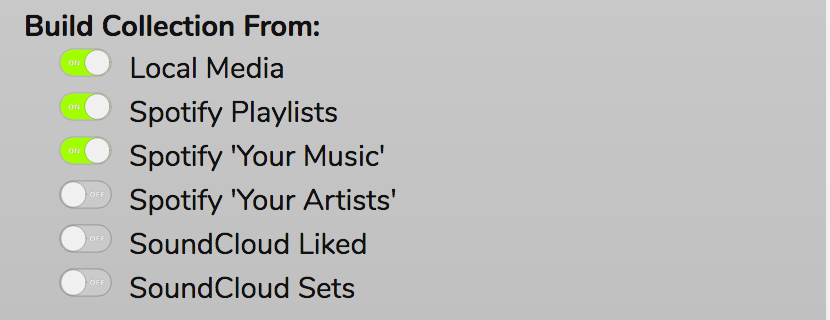
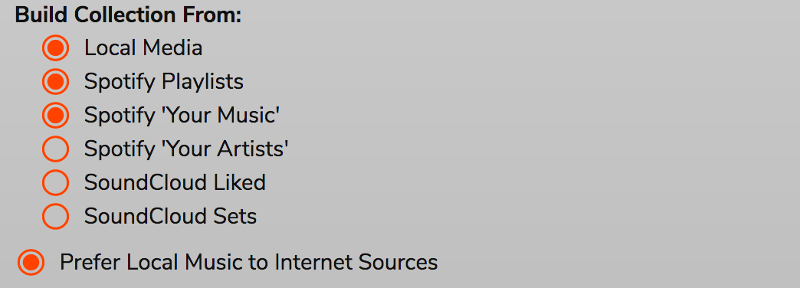
'Prefer Local Files' Collection option

Changed region(s): [[0.0, 0.0, 0.5, 0.8125], [0.0, 0.8438, 0.5625, 0.9688], [0.9688, 0.0, 1.0, 1.0]]

diff --git a/skins/desktop/skin.css b/skins/desktop/skin.css
@@ -46,10 +46,12 @@
     font-size:8pt;
     padding-top:0px;
     padding-bottom:0px;
-    /* white-space:nowrap; */
     height:60px;
     width:100%;
     overflow:hidden;
+    box-sizing:border-box;
+    border-right:4px solid transparent;
+    border-left:4px solid transparent;
 }
 
 #patrickmoore {

diff --git a/skins/fruit/skin.css b/skins/fruit/skin.css
@@ -70,10 +70,12 @@
     font-size:8pt;
     padding-top:0px;
     padding-bottom:0px;
-    /* white-space:nowrap; */
     height:60px;
     width:100%;
     overflow:hidden;
+    box-sizing:border-box;
+    border-right:4px solid transparent;
+    border-left:4px solid transparent;
 }
 
 #patrickmoore {

diff --git a/skins/skypotato/skin.css b/skins/skypotato/skin.css
@@ -70,10 +70,12 @@
     font-size:8pt;
     padding-top:0px;
     padding-bottom:0px;
-    /* white-space:nowrap; */
     height:60px;
     width:100%;
     overflow:hidden;
+    box-sizing:border-box;
+    border-right:4px solid transparent;
+    border-left:4px solid transparent;
 }
 
 #patrickmoore {

diff --git a/backends/sql/backend.php b/backends/sql/backend.php
@@ -163,16 +163,18 @@ function check_album(&$data) {
 	//		Checks for the existence of an album and creates it if necessary
 	//		Returns: Albumindex
 
-	global $prefs;
+	global $prefs, $trackbytrack, $doing_search;
 	$index = null;
 	$year = null;
 	$img = null;
+	$mbid = null;
 	$result = sql_prepare_query(false, PDO::FETCH_OBJ, null, null,
 		"SELECT
 			Albumindex,
 			Year,
 			Image,
-			AlbumUri
+			AlbumUri,
+			mbid
 		FROM
 			Albumtable
 		WHERE
@@ -180,12 +182,44 @@ function check_album(&$data) {
 			AND AlbumArtistindex = ?
 			AND Domain = ?", $data['album'], $data['albumai'], $data['domain']);
 	$obj = array_shift($result);
+
+	if ($prefs['preferlocalfiles'] && $trackbytrack && !$doing_search && $data['domain'] == 'local' && !$obj) {
+		// Does the album exist on a different, non-local, domain? The checks above ensure we only do this
+		// during a collection update
+		$result = sql_prepare_query(false, PDO::FETCH_OBJ, null, null,
+			"SELECT
+				Albumindex,
+				Year,
+				Image,
+				AlbumUri,
+				mbid,
+				Domain
+			FROM
+				Albumtable
+			WHERE
+				LOWER(Albumname) = LOWER(?)
+				AND AlbumArtistindex = ?", $data['album'], $data['albumai']);
+		$obj = array_shift($result);
+		if ($obj) {
+			debuglog("Album ".$data['album']." was found on domain ".$obj->Domain.". Changing to local","MYSQL", 7);
+			$index = $obj->Albumindex;
+			if (sql_prepare_query(true, null, null, null, "UPDATE Albumtable SET AlbumUri=NULL, Domain=?, justUpdated=? WHERE Albumindex=?", 'local', 1, $index)) {
+				$obj->AlbumUri = null;
+				debuglog("   ...Success","MYSQL",9);
+			} else {
+				debuglog("   Album ".$data['album']." update FAILED","MYSQL",3);
+				return false;
+			}
+		}
+	}
+
 	if ($obj) {
 		$index = $obj->Albumindex;
 		$year = best_value($obj->Year, $data['date']);
 		$img  = best_value($obj->Image, $data['image']);
 		$uri  = best_value($obj->AlbumUri, $data['albumuri']);
-		if ($year != $obj->Year || $img != $obj->Image || $uri != $obj->AlbumUri) {
+		$mbid  = best_value($obj->mbid, $data['ambid']);
+		if ($year != $obj->Year || $img != $obj->Image || $uri != $obj->AlbumUri || $mbid != $obj->mbid) {
 
 			if ($prefs['debug_enabled'] > 6) {
 				debuglog("Updating Details For Album ".$data['album']." (index ".$index.")" ,"MYSQL",7);
@@ -195,9 +229,11 @@ function check_album(&$data) {
 				debuglog("  New Image : ".$img,"MYSQL",7);
 				debuglog("  Old Uri  : ".$obj->AlbumUri,"MYSQL",7);
 				debuglog("  New Uri  : ".$uri,"MYSQL",7);
+				debuglog("  Old MBID  : ".$obj->mbid,"MYSQL",7);
+				debuglog("  New MBID  : ".$mbid,"MYSQL",7);
 			}
 
-			if (sql_prepare_query(true, null, null, null, "UPDATE Albumtable SET Year=?, Image=?, AlbumUri=?, justUpdated=1 WHERE Albumindex=?",$year, $img, $uri, $index)) {
+			if (sql_prepare_query(true, null, null, null, "UPDATE Albumtable SET Year=?, Image=?, AlbumUri=?, mbid=?, justUpdated=1 WHERE Albumindex=?",$year, $img, $uri, $mbid, $index)) {
 				debuglog("   ...Success","MYSQL",9);
 			} else {
 				debuglog("   Album ".$data['album']." update FAILED","MYSQL",3);

diff --git a/international/en.php b/international/en.php
@@ -601,12 +601,12 @@ $languages['en'] = array (
 	"config_beetsserver" => "Location of Beets Server (ip.address:port)",
 	"config_players" => 'Players',
 	"button_edit_players" => 'Edit Players',
-	
+
 	"label_play_all" => "Play All",
 	"label_play_options" => "Play Options",
 	"label_last_played" => "Last Played:",
 	"label_station_website" => "Station Website",
-	
+
 	"label_play_whole_album" => "Play Whole Album",
 	"label_from_collection" => "Play Only Tracks From Collection",
 	"label_with_ratings" => "Play Only Tracks With Ratings",
@@ -669,7 +669,8 @@ $languages['en'] = array (
 	"label_topright" => "Top Right",
 	"label_bottomleft" => "Bottom Left",
 	"label_bottomright" => "Bottom Right",
-	"label_centre" => "Centered"
+	"label_centre" => "Centered",
+	"config_preferlocal" => "Prefer Local Music to Internet Sources"
 );
 
 ?>

diff --git a/includes/prefspanel.php b/includes/prefspanel.php
@@ -395,6 +395,10 @@ if ($collection_type == "mopidy" && $prefs['player_backend'] == 'mopidy') {
     print '<div class="pref">'.get_int_text('config_beetsserver').'
     <input class="prefinput saveotron" id="beets_server_location" type="text" size="40" />
     </div>';
+
+    print '<div class="pref styledinputs">
+    <input class="autoset toggle" type="checkbox" id="preferlocalfiles">
+    <label for="preferlocalfiles">'.get_int_text('config_preferlocal').'</label></div>';
 }
 
 if ($collection_type == $prefs['player_backend']) {

diff --git a/includes/vars.php b/includes/vars.php
@@ -81,6 +81,7 @@ $prefs = array(
     "sortbycomposer" => false,
     "composergenre" => false,
     "composergenrename" => array("Classical"),
+    "preferlocalfiles" => false,
     "mopidy_collection_folders" => array("Spotify Playlists","Local media","SoundCloud/Liked"),
     "lastfm_country_code" => "GB",
     "country_userset" => false,

diff --git a/docs/Music-Collection.md b/docs/Music-Collection.md
@@ -49,14 +49,21 @@ You will only see options for backends that are enabled in Mopidy. The complete 
 * **SoundCloud 'Sets'** ('soundcloud' backend must be enabled)
 * **VKontakte** ('vkontakte' backend must be enabled)
 
+### On-The-Fly Collection Building
+
+Mopidy users also have the option to add tracks to the collection as they play. If you're playing a track from, say, Spotify and you like it, just give it a tag or a rating and it will be automatically added to your Collection. It will appear in the Collection with a cross next to it, which you can click to remove the track from the Collection. Spotify albums from the [Current Playlist](/RompR/The-Playlist), the [Spotify Info Panel](/RompR/The-Info-Panel), and [Music Discovery Sources](/RompR/Music-Discovery) can also be added directly into the Music Collection.
+
+If you're listening to an internet radio station and you hear a track you like, tagging or rating that will make RompЯ search for it on Spotify and add it to the collection if it finds it, or to your [Wishlist](/RompR/The-Wishlist) if it doesn't.
+
+### Preferring Local Music
+
+This option is best explained by an example. Suppose you have added some tracks from Spotify into your Music Collection on-the-fly but you then decide you'd like to buy copies of those files and add them to your local music in Mopidy. Normally, Rompr regards albums from different sources as different albums, so if you udate your Music Collection you'll have 2 copies of the album - one from Spotify and one Local. However, if you enable 'Prefer Local Music to Internet Sources', the pre-existing Spotify album will be replaced with your new Local album, and all ratings, tags, and playcounts transferred to it.
+
+Note that if the album exists in your Spotify Playlists or 'Your Music' and you are building your Collection from those sources, it will remain in your Collection. The replacement option only applies to files that have been added on the fly.
+
+
 ## Composers
 
 Classical music lovers (or lovers of other genres) also have the option to sort by Composer for specific Genres. Note that this relies on tracks being tagged with Composer information, which is not always the case with some backends in Mopidy. For local files you will need to tag them yourself for this to work.
 
 ![](images/composersort.png)
-
-## On-The-Fly Collection Building
-
-Mopidy users also have the option to add tracks to the collection as they play. If you're playing a track from, say, Spotify and you like it, just give it a tag or a rating and it will be automatically added to your Collection. It will appear in the Collection with a cross next to it, which you can click to remove the track from the Collection.
-
-If you're listening to an internet radio station and you hear a track you like, tagging or rating that will make RompЯ search for it on Spotify and add it to the collection if it finds it, or to your [Wishlist](/RompR/The-Wishlist) if it doesn't.
